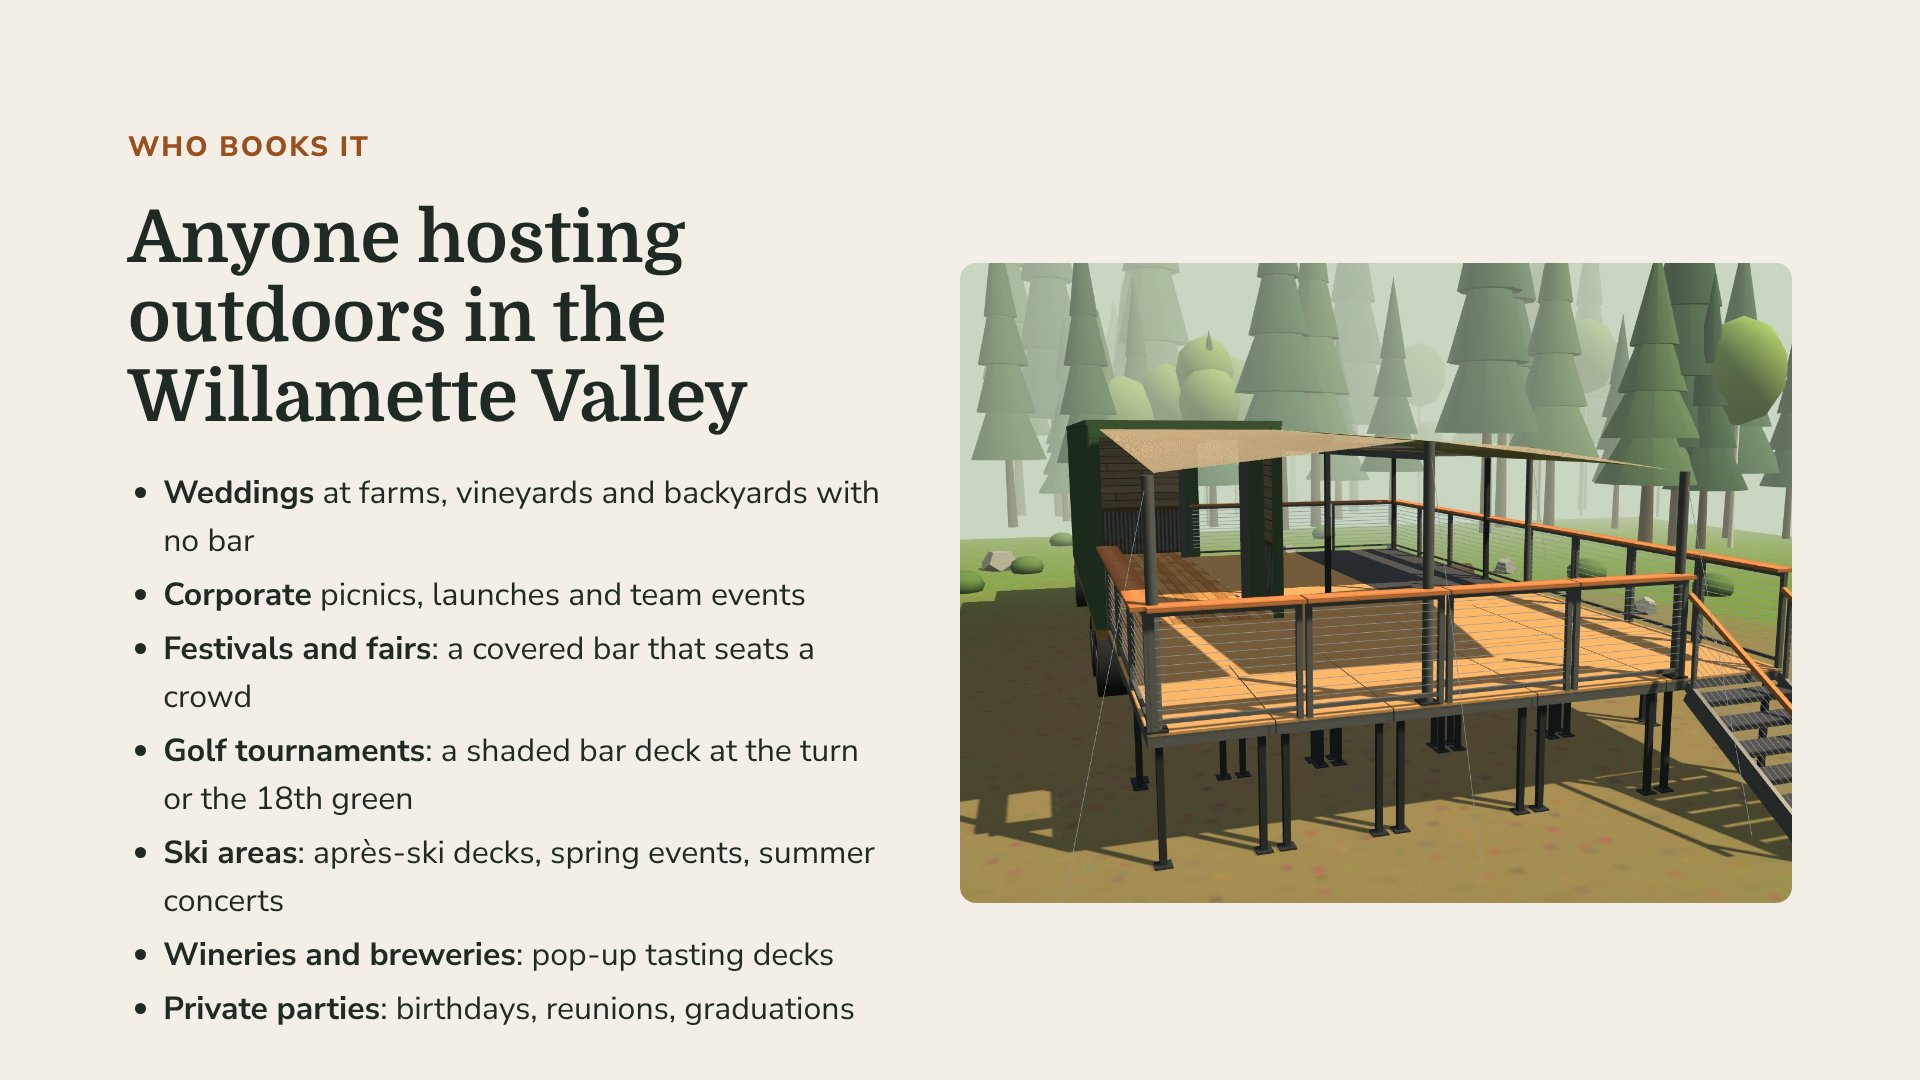
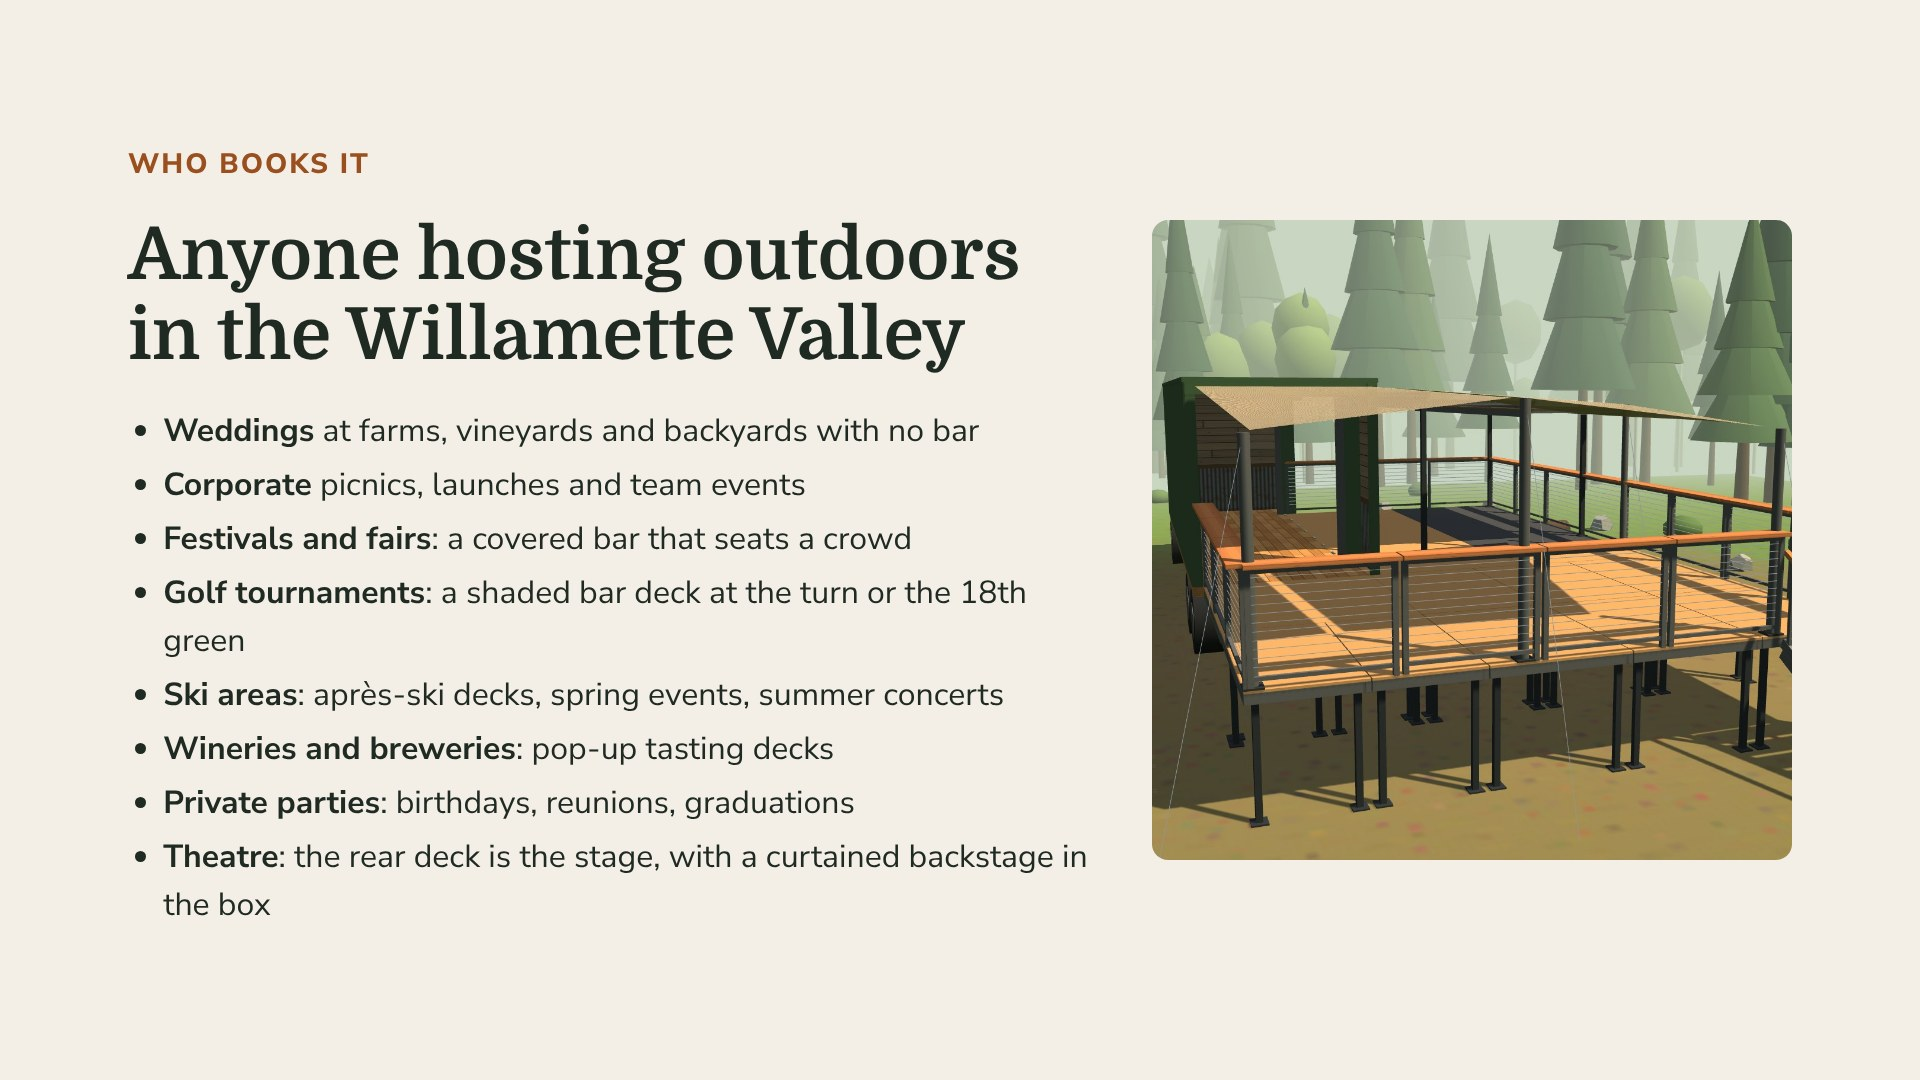
Theatre as a use: rear deck as the stage, box as backstage behind stage curtains (home page idea, investor room theatre layout and revenue streams, pitch slides 7 and 14)
Claude-Session: https://claude.ai/code/session_01LNijcv2FV3hR6ZxE7PD6Yh

Changed region(s): [[0.0625, 0.1222, 0.9375, 0.9472]]

diff --git a/investors-541/index.html b/investors-541/index.html
@@ -132,6 +132,7 @@ tr.plan td{background:color-mix(in srgb, var(--good) 13%, transparent);font-weig
 
 /* licensing */
 .paths{display:grid;grid-template-columns:repeat(3,minmax(0,1fr));gap:18px}
+.paths.four{grid-template-columns:repeat(4,minmax(0,1fr))}
 .path{border:1.5px solid var(--line);border-radius:12px;padding:22px;background:var(--paper);display:flex;flex-direction:column;gap:8px}
 .path .tag{align-self:flex-start;font-size:12px;font-weight:800;letter-spacing:.06em;text-transform:uppercase;padding:3px 9px;border-radius:5px;background:var(--paper-2);color:var(--ink-2)}
 .path p{color:var(--ink-2);font-size:15px}
@@ -169,7 +170,7 @@ footer .wrap{padding-block:22px;display:flex;flex-wrap:wrap;gap:8px 24px;justify
 @media (max-width:900px){
   .hero .wrap,.films,.two,.pc,.ask .wrap,.figs{grid-template-columns:minmax(0,1fr)}
   .steps{grid-template-columns:repeat(2,minmax(0,1fr))}
-  .paths,.docs{grid-template-columns:minmax(0,1fr)}
+  .paths,.paths.four,.docs{grid-template-columns:minmax(0,1fr)}
   .stats{grid-template-columns:repeat(2,minmax(0,1fr))}
   .hero .wrap{padding-block:36px 44px;gap:28px}
   .hero-film{order:-1}
@@ -290,10 +291,11 @@ footer .wrap{padding-block:22px;display:flex;flex-wrap:wrap;gap:8px 24px;justify
       <h2 id="capacity-h">Checked to a 100 psf crowd load</h2>
       <p class="lede">The deck is designed for the building-code load on assembly platforms, 100 lb per square foot, with railings that hold a 200 lb push at the top. The design uses tight joist spacing, six legs under each platform, support legs at the truck's hinge line and rear sill, mid-length legs under the rear door, and ground pads under every leg. A structural engineer stamps the final drawings.</p>
     </div>
-    <div class="paths">
+    <div class="paths four">
       <div class="path"><span class="tag">One stair</span><h3>49 people</h3><p>The code limit for an assembly space with a single exit.</p></div>
       <div class="path"><span class="tag">Two stairs, standing</span><h3>136 people</h3><p>A second 44 in stair sits at the front of the side deck. 5 sq ft per person, staff included.</p></div>
       <div class="path"><span class="tag">Wedding layout</span><h3>94 people</h3><p>Standing on the side deck, tables and chairs on the rear deck. About 45 with tables everywhere.</p></div>
+      <div class="path"><span class="tag">Theatre layout</span><h3>A stage with a backstage</h3><p>The rear deck is the stage and the box is backstage. Stage curtains across the rear doorway hide it from the crowd, so actors wait, change and make their entrances unseen. The audience sits on the lawn.</p></div>
     </div>
     <p class="note">The truck carries the venue: deck, roof, rails, stairs, platforms, the bar, the lithium power system, sink, cooler and water. A used 3/4-ton support pickup with a capped 8 ft bed carries the chairs, tables, ground pads, ice and drinks, and the second crew member. Carbon fiber roof beams, rafters and legs, carbon fiber sail and rail posts, honeycomb stair treads keep the truck about 1,350 lb under a typical 10,000 lb payload with the saloon interior of wood-look plank floors and barnwood veneer walls (about 600 lb with the Western inset floors). Neither vehicle needs a CDL. Details are in the materials list.</p>
   </div>
@@ -473,7 +475,7 @@ footer .wrap{padding-block:22px;display:flex;flex-wrap:wrap;gap:8px 24px;justify
           <li><b>Built for a crowd.</b> <span>Checked to a 100 psf crowd load; up to 136 people standing with two stairs.</span></li>
           <li><b>Silent power.</b> <span>A 15 kWh lithium pack under the frame runs two events per charge, no generator noise at weddings.</span></li>
           <li><b>Two vehicles, no CDL.</b> <span>The truck carries the venue; a used support pickup carries chairs, tables, ice and drinks, and runs errands.</span></li>
-          <li><b>Many revenue streams.</b> <span>Weddings, corporate, festivals, golf tournaments, ski areas, wineries and deck-only rentals.</span></li>
+          <li><b>Many revenue streams.</b> <span>Weddings, corporate, festivals, golf tournaments, ski areas, wineries, theatre and deck-only rentals.</span></li>
         </ul>
       </div>
       <div class="cons">

diff --git a/index.html b/index.html
@@ -220,11 +220,12 @@ svg.shop{display:block;width:100%;min-width:440px;height:auto}
   <div class="head">
     <p class="eyebrow">Ideas on the table</p>
     <h2>Options the concept explores</h2>
-    <p class="lede">Each idea below has a film in the next section, along with close-ups of how the parts mount and pack. None of them is decided.</p>
+    <p class="lede">Most ideas below have a film in the next section, along with close-ups of how the parts mount and pack. None of them is decided.</p>
   </div>
   <div class="probs">
     <div class="prob"><span class="tag">Small venues</span><h3>Side deck only</h3><p>The same rail panels close the side deck's rear end, and the rear stair hooks on there. The platforms and extra rails stay stacked at the venue. About half the setup and teardown work, for smaller events at a lower price.</p></div>
     <div class="prob"><span class="tag">Live music</span><h3>A stage on the rear deck</h3><p>A band plays under the shade sails, facing the audience on the lawn. The rear stair can hook on at the back of the stage as a backstage stair, and a standard rail panel fills its usual spot.</p></div>
+    <div class="prob"><span class="tag">Theatre</span><h3>A stage with a backstage</h3><p>The rear deck becomes the stage and the box becomes backstage. Stage curtains across the rear doorway hide it from the crowd, so actors wait, change and make their entrances out of sight. The audience sits on the lawn behind the truck.</p></div>
     <div class="prob"><span class="tag">Travel</span><h3>The bar frame holds the load</h3><p>The folded bar frame works as a headboard for the platform stack. Platforms pin together, rail panels stand in floor sockets, the stairs hang on a catch bar, and a few straps finish the job.</p></div>
     <div class="prob"><span class="tag">Roof</span><h3>Manual or automated</h3><p>Manual: two workers roll each tier out on its tracks and pin the legs. Automated: motors, belts and leg actuators on one button, with a wind sensor that pulls the roof in. Automation is faster, but adds cost, wiring and battery load. Either one can swap the Suntuf for flexible solar panels that charge the battery while the roof is out.</p></div>
     <div class="prob"><span class="tag">Weight</span><h3>Carbon fiber where it counts</h3><p>Carbon fiber roof beams, rafters and legs, sail posts and rail posts, with honeycomb stair treads and a thinner cedar drink rail. About 1,000 lb lighter, which keeps the truck under its payload while the support pickup carries the chairs, tables and ice. About $18,000 more in materials.</p></div>
